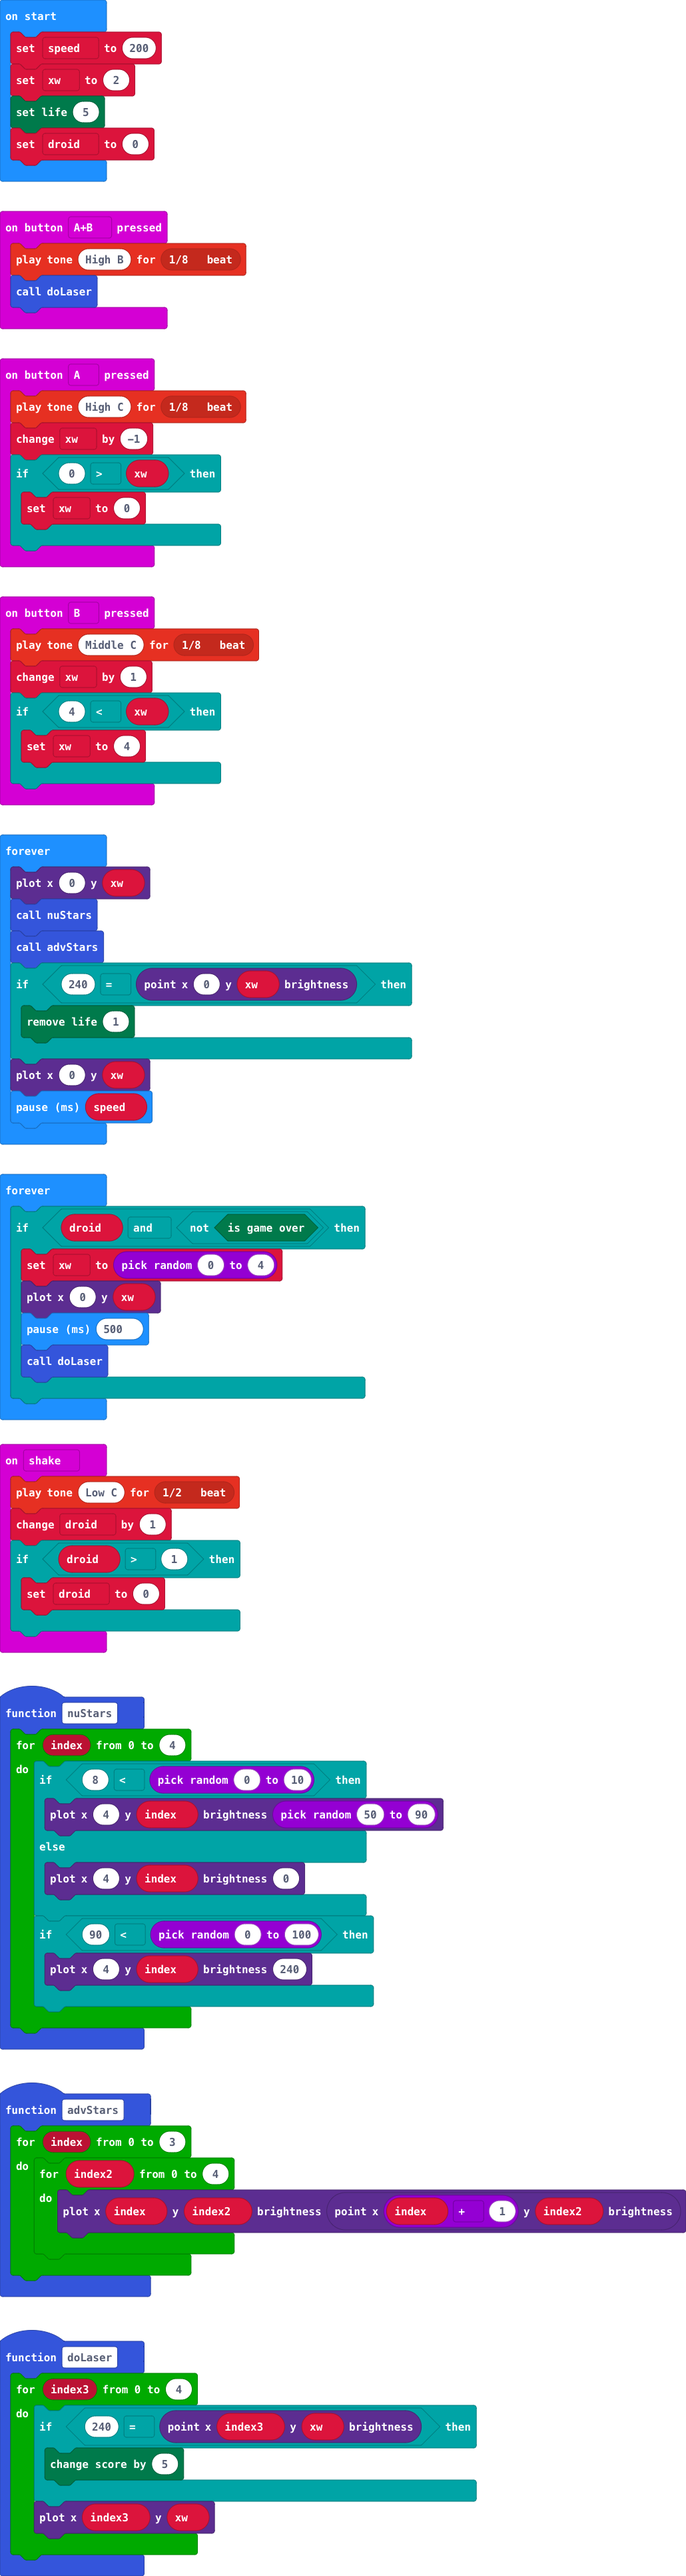
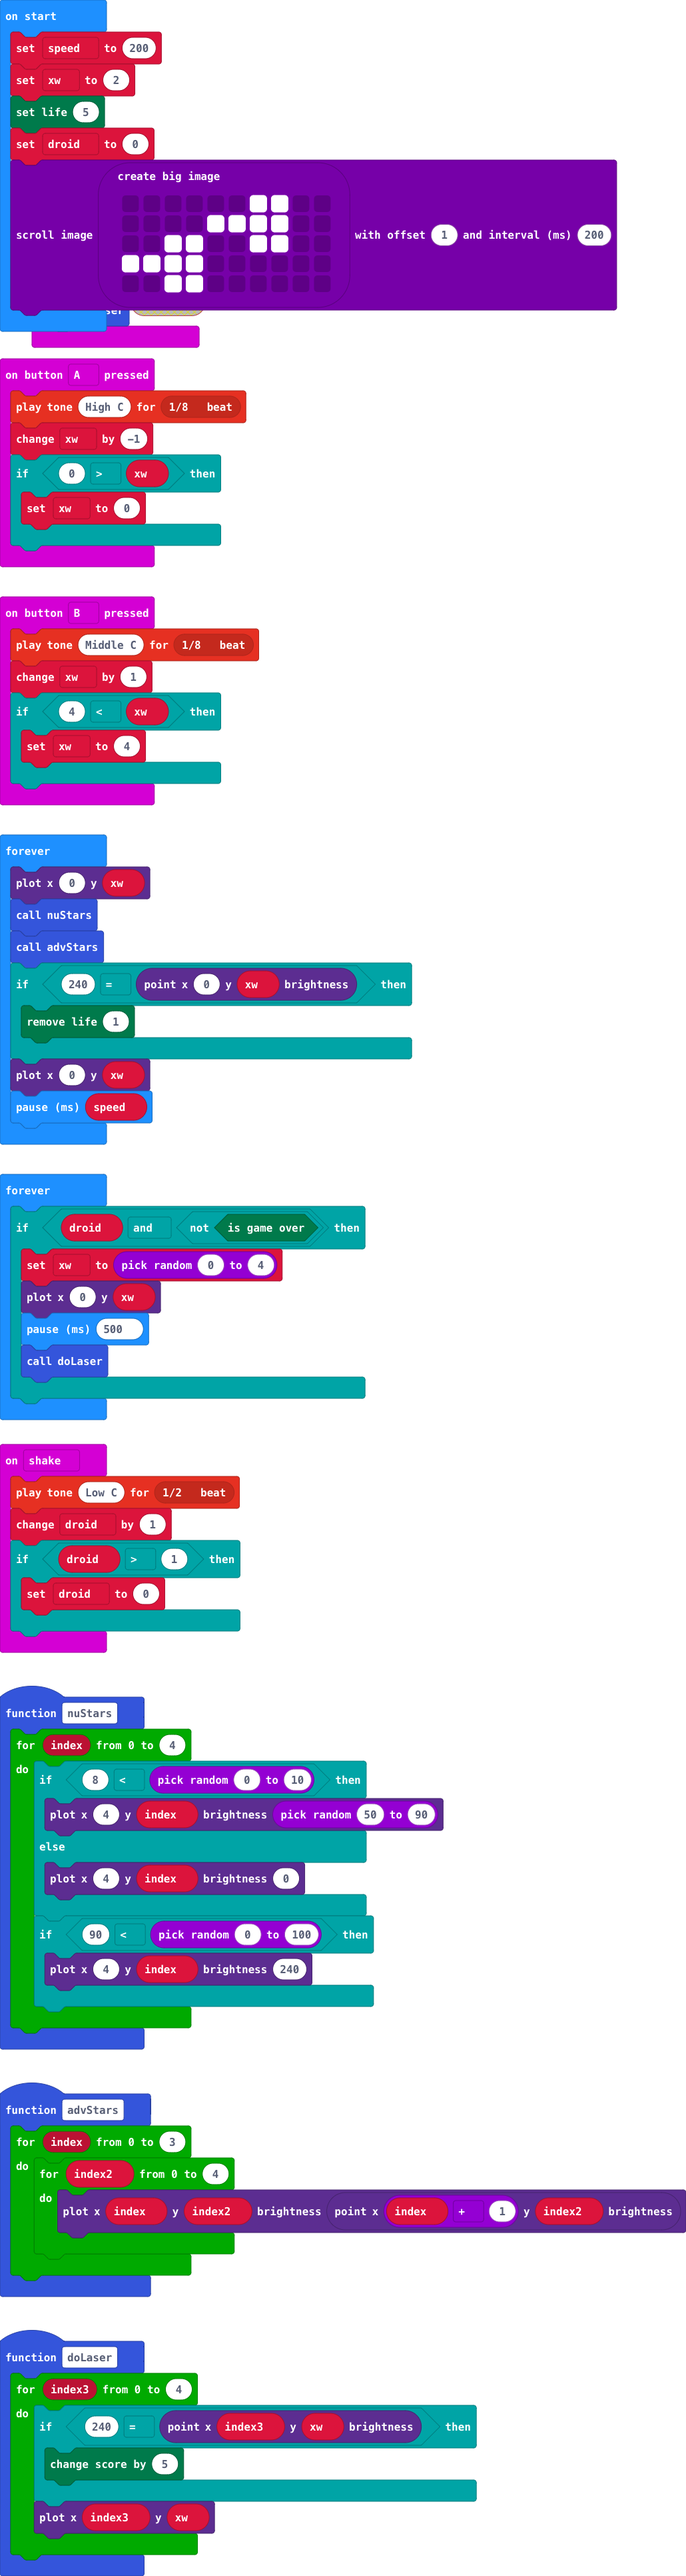
Update main.blocks, main.ts

Changed region(s): [[0.0, 0.0621, 0.901, 0.1553]]

diff --git a/main.ts b/main.ts
@@ -56,6 +56,13 @@ let speed = 200
 xw = 2
 game.setLife(5)
 droid = 0
+images.createBigImage(`
+    . . . . . . # # . .
+    . . . . # # # # . .
+    . . # # . . # # . .
+    # # # # . . . . . .
+    . . # # . . . . . .
+    `).scrollImage(1, 200)
 basic.forever(function () {
     led.plot(0, xw)
     nuStars()
